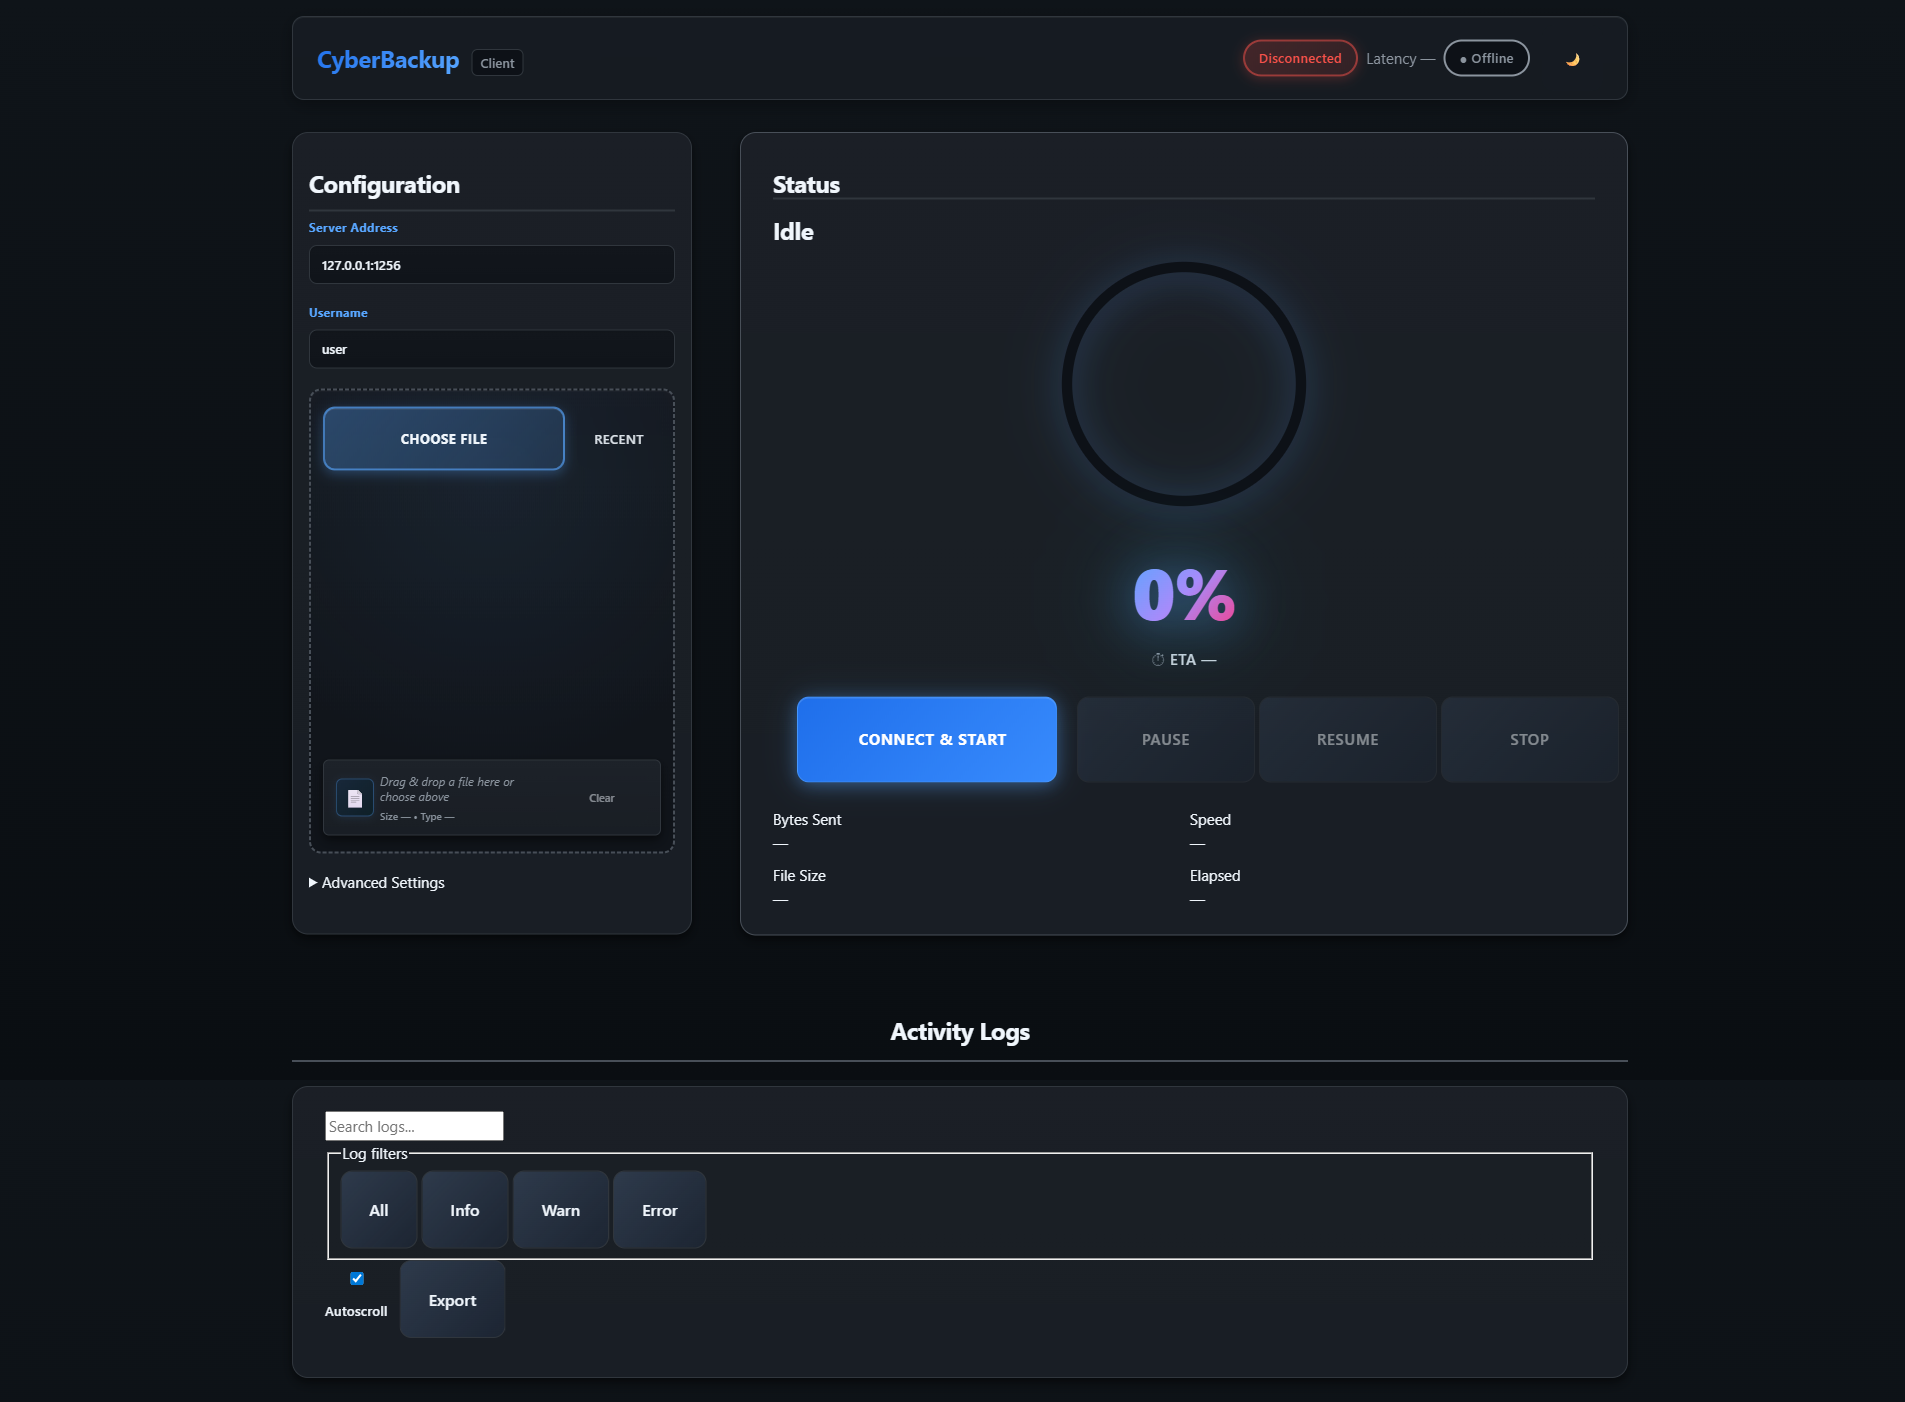
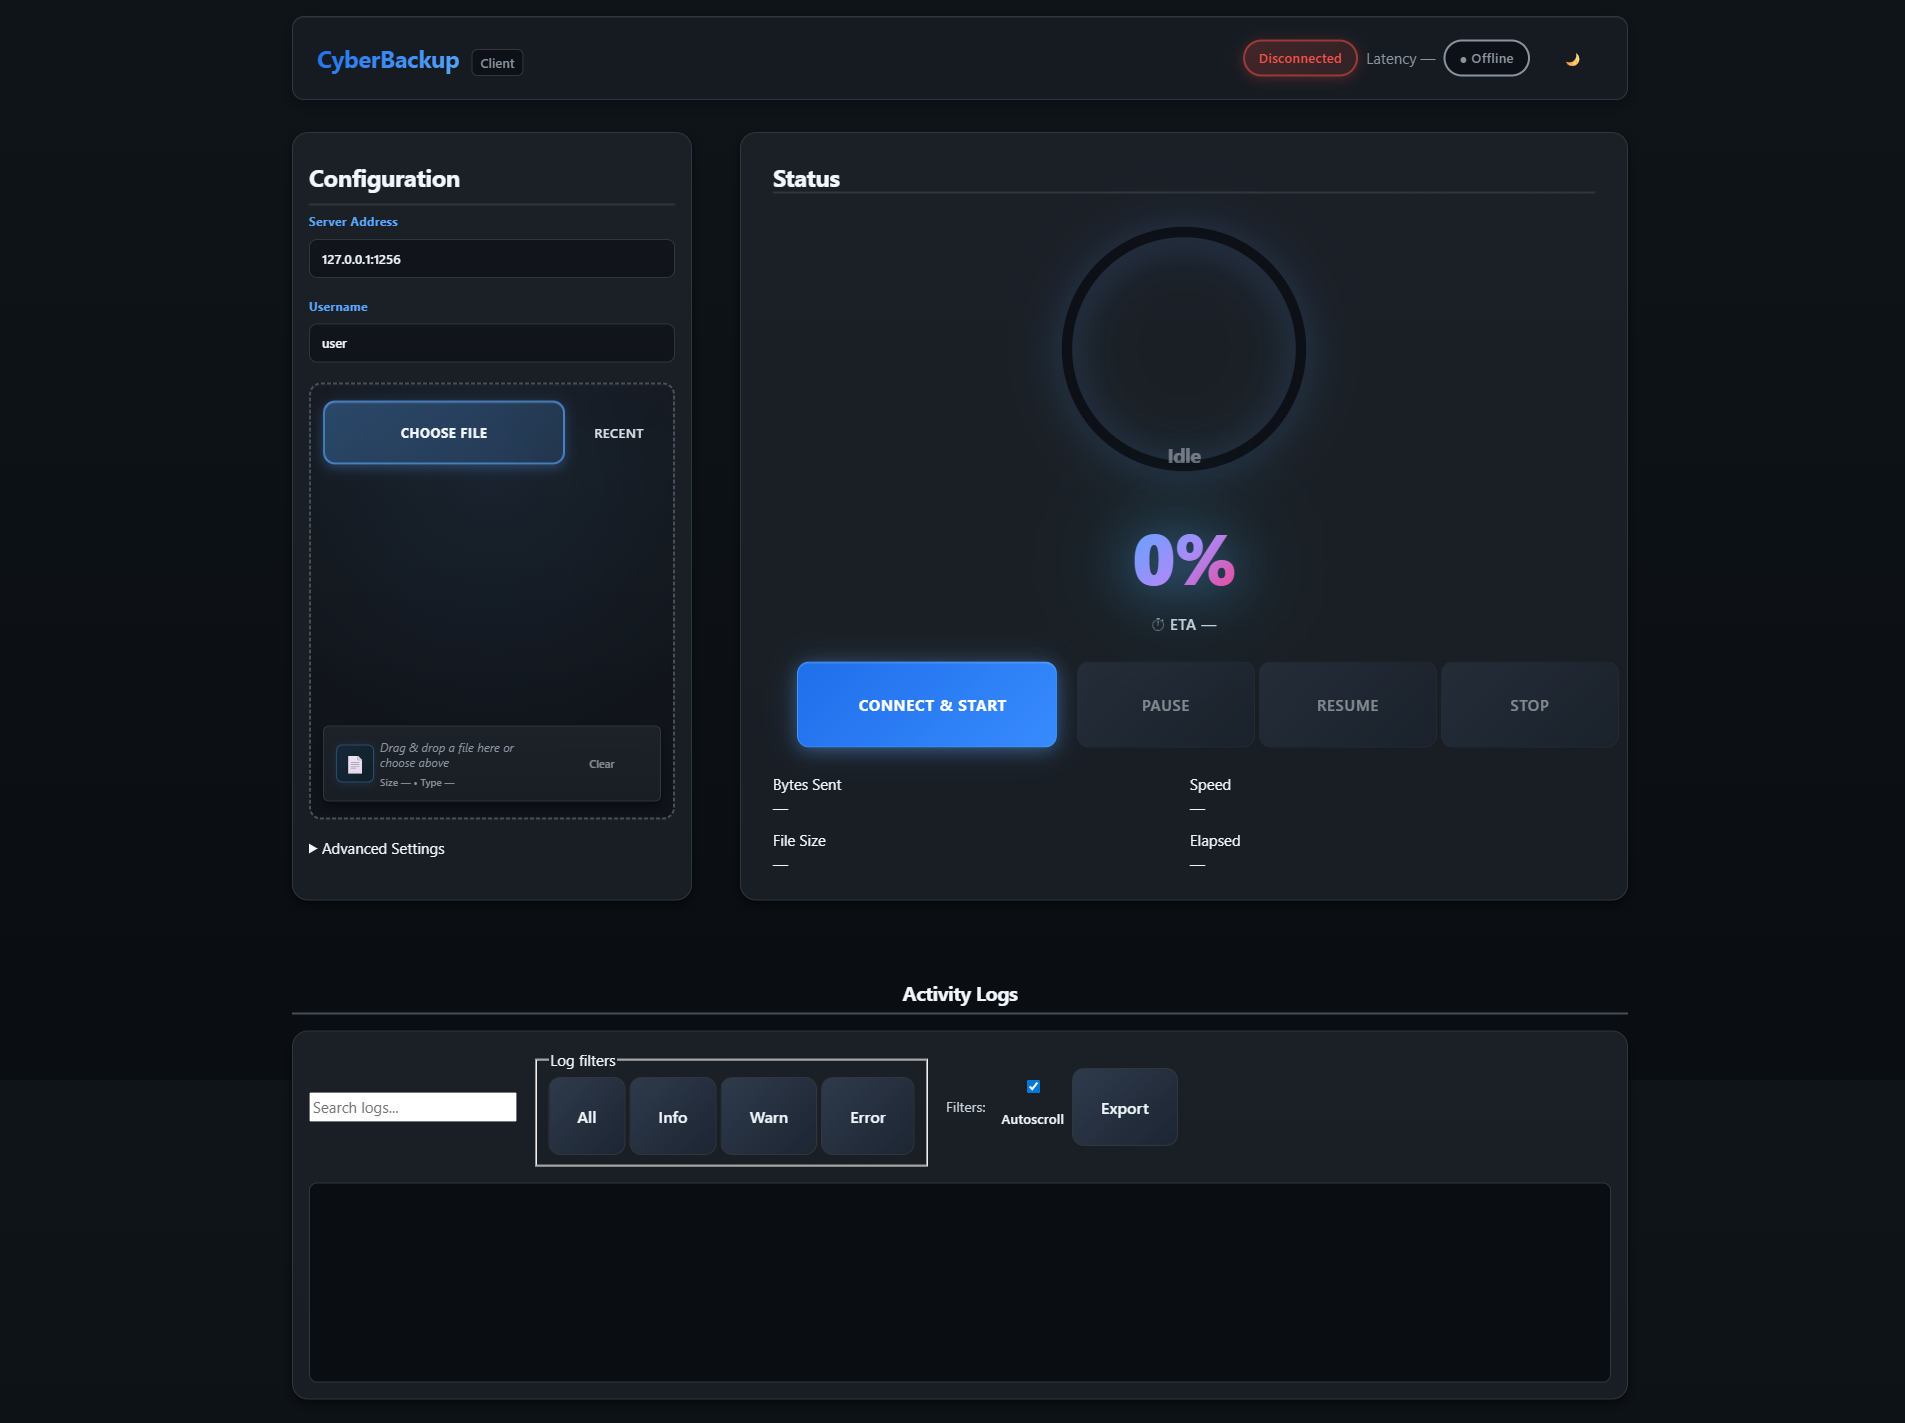
activity log added to client gui

diff --git a/Client/Client-gui/styles/enhancements.css b/Client/Client-gui/styles/enhancements.css
@@ -44,16 +44,16 @@ main#mainContent > aside.stack {
   gap: var(--space-xs) !important;
 }
 
-/* Reduce spacing between Configuration title and first field */
+/* Halve top padding for Configuration title */
 main#mainContent > aside.stack > #cfgTitle {
   margin-bottom: 0 !important;
-  padding-top: var(--space-sm) !important;
+  padding-top: calc(var(--space-sm) * 0.5) !important;
 }
 
 /* File drop zone - adjusted height to match Status panel */
 main#mainContent > aside.stack .file-drop-zone {
   padding: var(--space-md) var(--space-sm) !important;
-  min-height: 465px !important;
+  min-height: 437px !important;
 }
 
 /* Reduce internal spacing in file drop zone */
@@ -84,23 +84,30 @@ section.logs {
    COMPRESS STATUS PANEL TITLES
    ======================================== */
 
-/* "Status" title - ultra-compact */
+/* Halve top padding for Status title */
 main#mainContent > section.stack > .phase:first-child {
   margin-bottom: 0 !important;
   padding-bottom: 0 !important;
-  padding-top: var(--space-sm) !important;
+  padding-top: calc(var(--space-sm) * 0.5) !important;
 }
 
-/* "Idle" text - overlap with ring */
+/* Reposition "Idle" text in the center of the progress ring */
 main#mainContent > section.stack > div.phase.liquid-text {
-  margin-top: 0 !important;
-  margin-bottom: calc(var(--space-md) * -1) !important;
+  position: absolute !important;
+  top: 50% !important;
+  left: 50% !important;
+  transform: translate(-50%, -50%) !important;
+  margin: 0 !important;
+  font-size: 1.25rem !important;
+  opacity: 0.4 !important;
+  z-index: 1 !important;
 }
 
-/* Progress ring - keep big, minimal margins */
+/* Progress ring - keep big, minimal margins, positioned for Idle overlay */
 main#mainContent > section.stack > .center {
   margin-top: 0 !important;
   margin-bottom: var(--space-sm) !important;
+  position: relative !important;
 }
 
 /* Buttons - ultra-compact */
@@ -146,4 +153,252 @@ main#mainContent > aside.stack::-webkit-scrollbar-thumb {
 
 main#mainContent > aside.stack::-webkit-scrollbar-thumb:hover {
   background: var(--border-hover);
+}
+
+/* ========================================
+   ACTIVITY LOGS - PROFESSIONAL REDESIGN
+   ======================================== */
+
+/* Main logs section - clean spacing */
+section.logs {
+  padding: 0 !important;
+  margin-top: var(--space-2xl) !important;
+}
+
+/* Logs title - refined typography */
+section.logs > .phase {
+  margin-bottom: var(--space-lg) !important;
+  padding-bottom: 0 !important;
+  font-size: 1.5rem !important;
+  font-weight: 600 !important;
+  letter-spacing: -0.02em !important;
+}
+
+/* Card container - elevated panel */
+section.logs .card {
+  padding: 0 !important;
+  background: var(--bg-secondary) !important;
+  border: 1px solid var(--border) !important;
+  border-radius: var(--radius-lg) !important;
+  box-shadow: 0 2px 8px rgba(0, 0, 0, 0.1) !important;
+  overflow: hidden !important;
+}
+
+/* ========================================
+   TOOLBAR - SINGLE LINE LAYOUT
+   ======================================== */
+
+/* Main toolbar - single horizontal bar */
+section.logs .toolbar {
+  display: flex !important;
+  align-items: center !important;
+  gap: var(--space-md) !important;
+  padding: var(--space-md) var(--space-lg) !important;
+  background: var(--bg-tertiary) !important;
+  border-bottom: 1px solid var(--border) !important;
+}
+
+/* Search container - primary element */
+section.logs .log-search {
+  flex: 1 1 300px !important;
+  max-width: 400px !important;
+}
+
+/* Search input - modern styling */
+section.logs .log-search input {
+  width: 100% !important;
+  padding: var(--space-sm) var(--space-md) !important;
+  font-size: 0.875rem !important;
+  background: var(--bg) !important;
+  border: 1px solid var(--border) !important;
+  border-radius: var(--radius-md) !important;
+  transition: all 0.2s ease !important;
+}
+
+section.logs .log-search input:focus {
+  outline: none !important;
+  border-color: var(--accent) !important;
+  box-shadow: 0 0 0 3px rgba(96, 165, 250, 0.1) !important;
+}
+
+/* ========================================
+   FILTER BUTTONS - PILL STYLE
+   ======================================== */
+
+/* Filter group - clean inline layout */
+section.logs .filter-group {
+  display: flex !important;
+  gap: var(--space-xs) !important;
+  border: none !important;
+  padding: 0 !important;
+  margin: 0 !important;
+}
+
+/* Remove the legend (sr-only is fine) */
+section.logs .filter-group legend {
+  display: none !important;
+}
+
+/* Filter buttons - modern pill design */
+section.logs .filter-btn {
+  padding: var(--space-xs) var(--space-md) !important;
+  font-size: 0.813rem !important;
+  font-weight: 500 !important;
+  color: var(--text-secondary) !important;
+  background: var(--bg) !important;
+  border: 1px solid transparent !important;
+  border-radius: var(--radius-full) !important;
+  cursor: pointer !important;
+  transition: all 0.2s ease !important;
+  white-space: nowrap !important;
+}
+
+/* Filter button hover */
+section.logs .filter-btn:hover {
+  color: var(--text-primary) !important;
+  background: var(--bg-secondary) !important;
+  border-color: var(--border) !important;
+}
+
+/* Active filter button */
+section.logs .filter-btn.active {
+  color: #ffffff !important;
+  background: var(--accent) !important;
+  border-color: var(--accent) !important;
+  font-weight: 600 !important;
+}
+
+/* ========================================
+   TOOLBAR UTILITIES
+   ======================================== */
+
+/* Right-side utilities container */
+section.logs .toolbar > .row {
+  display: flex !important;
+  align-items: center !important;
+  gap: var(--space-md) !important;
+  margin-left: auto !important;
+}
+
+/* Autoscroll label - clean checkbox style */
+section.logs .label-autoscroll {
+  display: flex !important;
+  align-items: center !important;
+  gap: var(--space-xs) !important;
+  font-size: 0.875rem !important;
+  color: var(--text-secondary) !important;
+  cursor: pointer !important;
+  user-select: none !important;
+}
+
+section.logs .label-autoscroll:hover {
+  color: var(--text-primary) !important;
+}
+
+/* Checkbox styling */
+section.logs .label-autoscroll input[type="checkbox"] {
+  width: 16px !important;
+  height: 16px !important;
+  cursor: pointer !important;
+}
+
+/* Export button - secondary action */
+section.logs #logExportBtn {
+  padding: var(--space-xs) var(--space-md) !important;
+  font-size: 0.875rem !important;
+  font-weight: 500 !important;
+  color: var(--text-primary) !important;
+  background: var(--bg) !important;
+  border: 1px solid var(--border) !important;
+  border-radius: var(--radius-md) !important;
+  cursor: pointer !important;
+  transition: all 0.2s ease !important;
+}
+
+section.logs #logExportBtn:hover {
+  background: var(--bg-secondary) !important;
+  border-color: var(--border-hover) !important;
+}
+
+/* ========================================
+   LOG DISPLAY AREA
+   ======================================== */
+
+/* Log container - professional code viewer */
+section.logs pre#logContainer {
+  min-height: 280px !important;
+  max-height: 400px !important;
+  overflow-y: auto !important;
+  padding: var(--space-lg) !important;
+  margin: 0 !important;
+  font-family: 'Consolas', 'Monaco', 'Courier New', monospace !important;
+  font-size: 0.813rem !important;
+  line-height: 1.7 !important;
+  color: var(--text-primary) !important;
+  background: var(--bg) !important;
+  white-space: pre-wrap !important;
+  word-wrap: break-word !important;
+  tab-size: 4 !important;
+}
+
+/* Log lines - subtle hover effect */
+section.logs pre#logContainer:hover {
+  background: var(--bg) !important;
+}
+
+/* Custom scrollbar - sleek design */
+section.logs pre#logContainer::-webkit-scrollbar {
+  width: 10px !important;
+  background: transparent !important;
+}
+
+section.logs pre#logContainer::-webkit-scrollbar-track {
+  background: var(--bg-secondary) !important;
+  border-left: 1px solid var(--border) !important;
+}
+
+section.logs pre#logContainer::-webkit-scrollbar-thumb {
+  background: var(--border-hover) !important;
+  border-radius: var(--radius-sm) !important;
+  border: 2px solid var(--bg-secondary) !important;
+}
+
+section.logs pre#logContainer::-webkit-scrollbar-thumb:hover {
+  background: var(--text-tertiary) !important;
+}
+
+/* Empty state message */
+section.logs pre#logContainer:empty::before {
+  content: 'No log entries yet. Activity will appear here once you start a backup...' !important;
+  display: block !important;
+  padding: var(--space-xl) !important;
+  text-align: center !important;
+  color: var(--text-tertiary) !important;
+  font-style: italic !important;
+}
+
+/* ========================================
+   LOG SYNTAX HIGHLIGHTING
+   ======================================== */
+
+/* INFO level logs - blue accent */
+section.logs pre#logContainer .log-info {
+  color: #60a5fa !important;
+}
+
+/* WARN level logs - yellow/amber accent */
+section.logs pre#logContainer .log-warn {
+  color: #fbbf24 !important;
+}
+
+/* ERROR level logs - red accent */
+section.logs pre#logContainer .log-error {
+  color: #ef4444 !important;
+  font-weight: 500 !important;
+}
+
+/* Timestamps - muted */
+section.logs pre#logContainer .log-timestamp {
+  color: var(--text-tertiary) !important;
+  opacity: 0.7 !important;
 }
